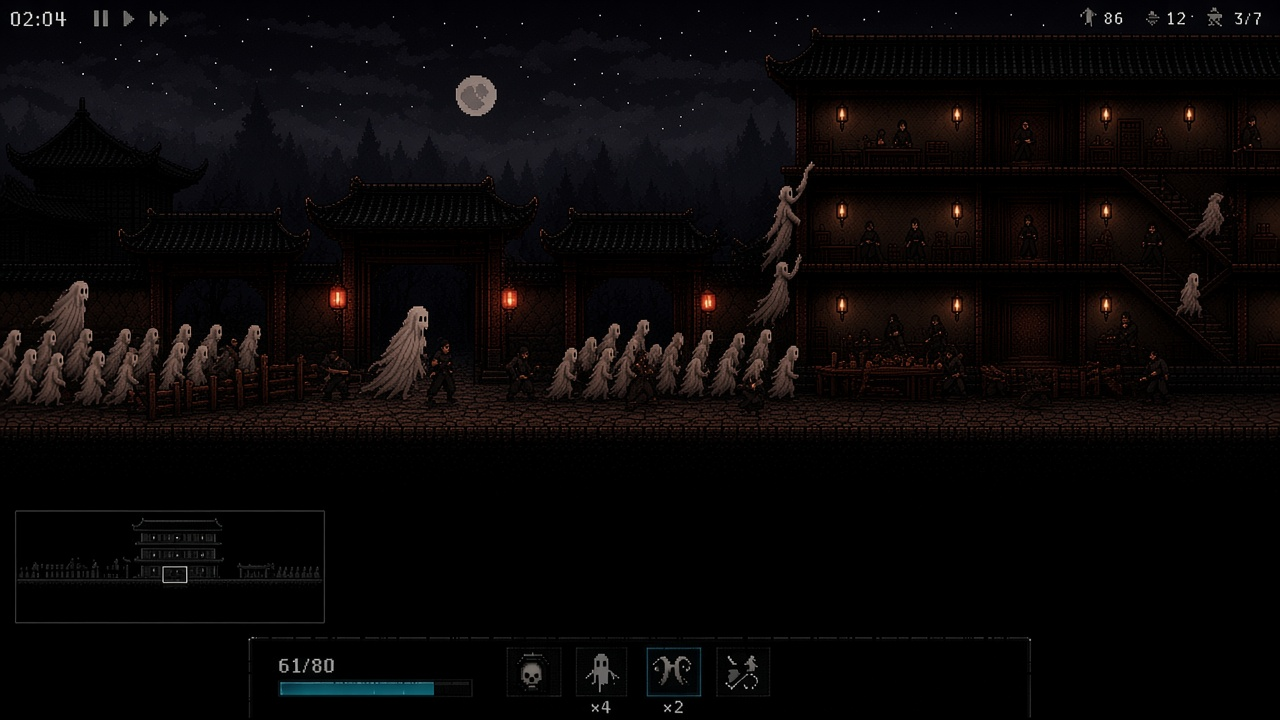
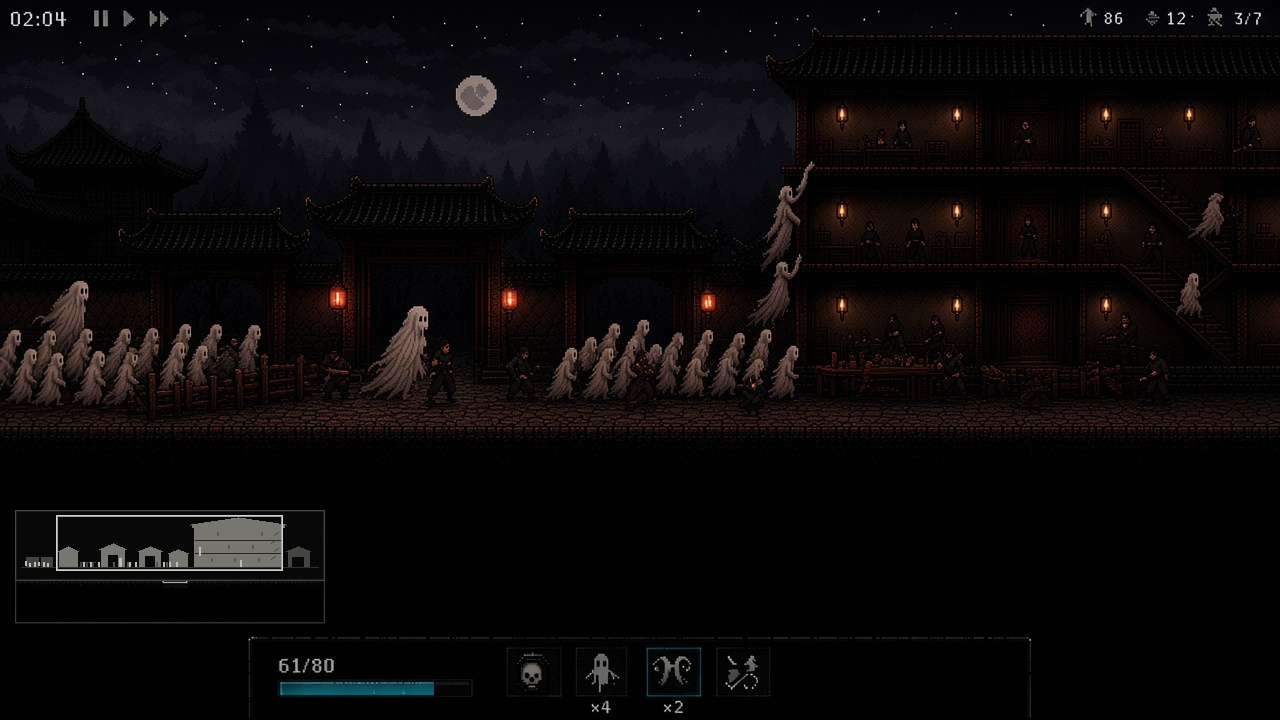
fix: 小地图镜头框与当前画面范围对齐

Changed region(s): [[0.0, 0.7028, 0.25, 0.7944]]

diff --git a/docs/夜祠_游戏设计文档_v0.2（全文）.md b/docs/夜祠_游戏设计文档_v0.2（全文）.md
@@ -600,7 +600,7 @@ DLC 用新时令加科仪，不推翻这张表。
 
 ## 17. 操作、界面与辅助
 
-- 默认缩放就是第 19 章锁定的远镜头，常规作战不自动推近。战场比一个镜头大，可左右平移（暂停和进行中都可以）。不要靠缩小单位把整张图塞进一屏。小地图标出全图和当前镜头。破门、上楼等爽点可以有短暂的冲击强调，但必须回到远镜头。点选单位时用描边、脚下光和暂停面板看信息，不靠把单位放大。
+- 默认缩放就是第 19 章锁定的远镜头，常规作战不自动推近。战场比一个镜头大，可左右平移（暂停和进行中都可以）。不要靠缩小单位把整张图塞进一屏。小地图标出全图和当前镜头，镜头框必须与当前画面范围一致。破门、上楼等爽点可以有短暂的冲击强调，但必须回到远镜头。点选单位时用描边、脚下光和暂停面板看信息，不靠把单位放大。
 - HUD 结构锁在方案 A：顶部为倒计时/科仪、名册火苗、香火与名分、门与上层状态；底部为指令与变异/点册栏；左或右为编制与资源；画面下沿允许大块黑场负空间，像真实的 2D 指挥游戏，不要把 UI 画成插画边框。
 - 暂停是第一公民。菜单、图鉴点击、变异确认都在暂停里完成。
 - 二倍速必须可用，但阿卯等特性会提醒你：加速不是让你漏掉上楼的借口。
@@ -665,7 +665,7 @@ DLC 用新时令加科仪，不推翻这张表。
 
 先前把整场祠战塞进一个镜头，接近段只有十几秒的路。几十上百只鬼一旦灌入，人还没撤到下一道防线就被淹没，一夜 25–40 分钟就无从谈起。
 
-- **战场比一个镜头大，可左右平移。** 默认镜头仍按第 19.1 节的单位比例显示一个作战切片，不靠缩小单位把整张图塞进一屏。小地图必须标出全图和当前镜头位置。
+- **战场比一个镜头大，可左右平移。** 默认镜头仍按第 19.1 节的单位比例显示一个作战切片，不靠缩小单位把整张图塞进一屏。小地图必须标出全图和当前镜头位置；镜头框的范围必须与当前画面一致，不能只标祠堂局部。
 - **标准战斗图约 4–6 个默认镜头宽**（含两进庭院的回转和楼梯路径）。切片里若正在看接近段，祠堂只占画面右侧约 35%–40%，右侧房间可以出画；平移到室内时，再按第 19.3–19.5 节展示房间与楼梯。
 - **路径要用时间验收，不能只看构图。** 从潮源走到名册房，无交战、无障碍时，普通鬼至少要走 45–70 秒。有默认门和 2–3 道障碍、正常坚守时，潮首次压到名册房不应早于 2–3 分钟。走速、射程和自动退守见第 6.5 节。
 - **镜头里要能看见前后层次：** 后排还在画外往里涌，中段在路上或一进庭院，前排已经打到内门或门厅。

diff --git a/docs/19-美术与声音.md b/docs/19-美术与声音.md
@@ -44,7 +44,7 @@
 
 先前把整场祠战塞进一个镜头，接近段只有十几秒的路。几十上百只鬼一旦灌入，人还没撤到下一道防线就被淹没，一夜 25–40 分钟就无从谈起。
 
-- **战场比一个镜头大，可左右平移。** 默认镜头仍按第 19.1 节的单位比例显示一个作战切片，不靠缩小单位把整张图塞进一屏。小地图必须标出全图和当前镜头位置。
+- **战场比一个镜头大，可左右平移。** 默认镜头仍按第 19.1 节的单位比例显示一个作战切片，不靠缩小单位把整张图塞进一屏。小地图必须标出全图和当前镜头位置；镜头框的范围必须与当前画面一致，不能只标祠堂局部。
 - **标准战斗图约 4–6 个默认镜头宽**（含两进庭院的回转和楼梯路径）。切片里若正在看接近段，祠堂只占画面右侧约 35%–40%，右侧房间可以出画；平移到室内时，再按第 19.3–19.5 节展示房间与楼梯。
 - **路径要用时间验收，不能只看构图。** 从潮源走到名册房，无交战、无障碍时，普通鬼至少要走 45–70 秒。有默认门和 2–3 道障碍、正常坚守时，潮首次压到名册房不应早于 2–3 分钟。走速、射程和自动退守见第 6.5 节。
 - **镜头里要能看见前后层次：** 后排还在画外往里涌，中段在路上或一进庭院，前排已经打到内门或门厅。

diff --git a/docs/17-操作与界面.md b/docs/17-操作与界面.md
@@ -1,6 +1,6 @@
 ## 17. 操作、界面与辅助
 
-- 默认缩放就是第 19 章锁定的远镜头，常规作战不自动推近。战场比一个镜头大，可左右平移（暂停和进行中都可以）。不要靠缩小单位把整张图塞进一屏。小地图标出全图和当前镜头。破门、上楼等爽点可以有短暂的冲击强调，但必须回到远镜头。点选单位时用描边、脚下光和暂停面板看信息，不靠把单位放大。
+- 默认缩放就是第 19 章锁定的远镜头，常规作战不自动推近。战场比一个镜头大，可左右平移（暂停和进行中都可以）。不要靠缩小单位把整张图塞进一屏。小地图标出全图和当前镜头，镜头框必须与当前画面范围一致。破门、上楼等爽点可以有短暂的冲击强调，但必须回到远镜头。点选单位时用描边、脚下光和暂停面板看信息，不靠把单位放大。
 - HUD 结构锁在方案 A：顶部为倒计时/科仪、名册火苗、香火与名分、门与上层状态；底部为指令与变异/点册栏；左或右为编制与资源；画面下沿允许大块黑场负空间，像真实的 2D 指挥游戏，不要把 UI 画成插画边框。
 - 暂停是第一公民。菜单、图鉴点击、变异确认都在暂停里完成。
 - 二倍速必须可用，但阿卯等特性会提醒你：加速不是让你漏掉上楼的借口。
